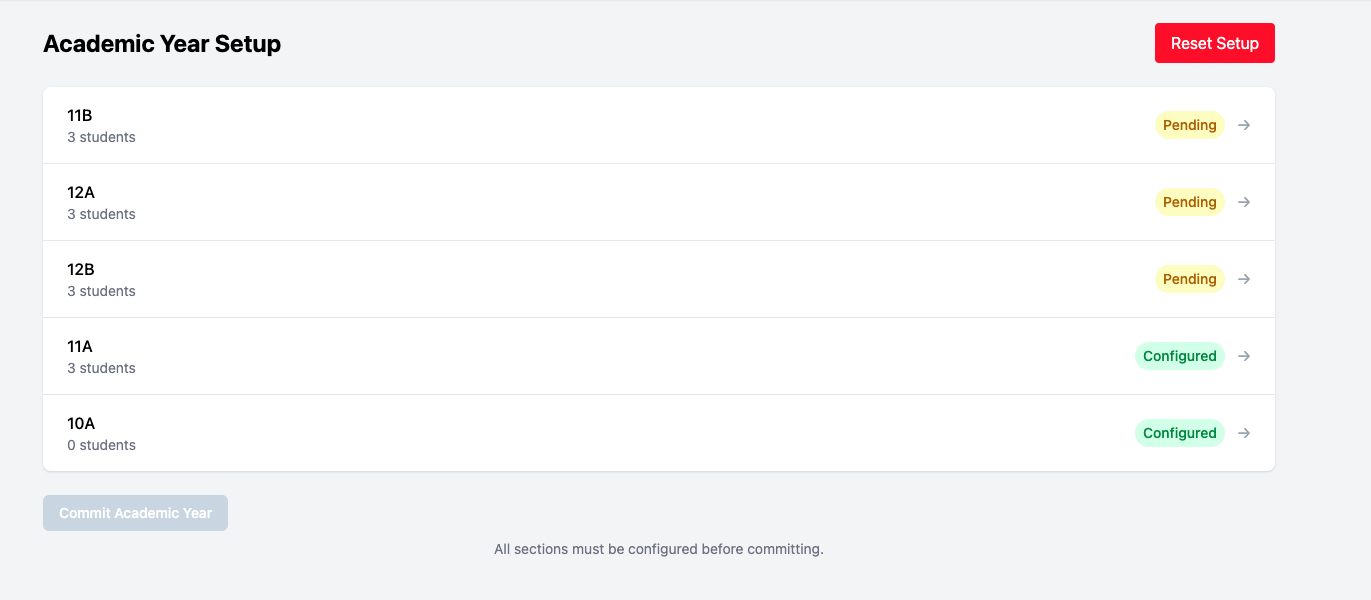
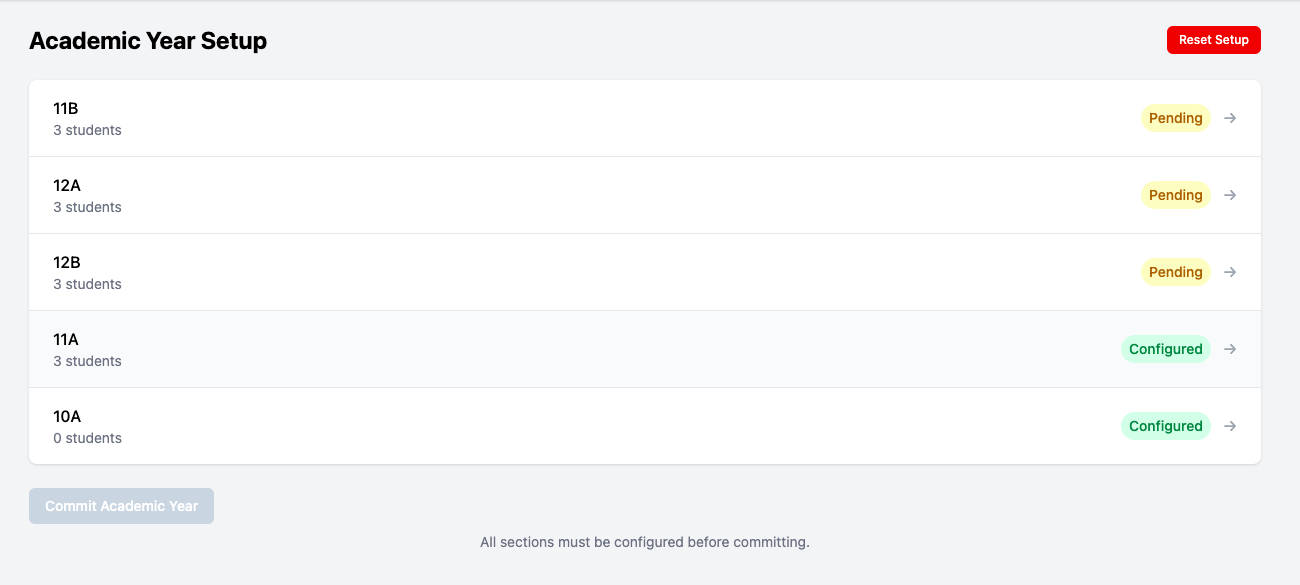
read me edit

diff --git a/frontend/src/pages/admin/AcademicYearSections.tsx b/frontend/src/pages/admin/AcademicYearSections.tsx
@@ -61,7 +61,7 @@ const AcademicYearSections = () => {
         <button
           onClick={handleReset}
           disabled={actionLoading}
-          className="bg-red-500 text-white px-4 py-2 rounded hover:bg-red-600 disabled:bg-gray-400"
+          className="px-3 py-1.5 text-xs font-medium text-white bg-red-600 rounded-md hover:bg-red-700 transition"
         >
           Reset Setup
         </button>

diff --git a/README.md b/README.md
@@ -56,6 +56,7 @@ designed for administrators and teachers.
                                  Router, Tailwind CSS, Axios
 
   Tooling                        Git, Postman
+  
   -----------------------------------------------------------------------
 
 ------------------------------------------------------------------------
